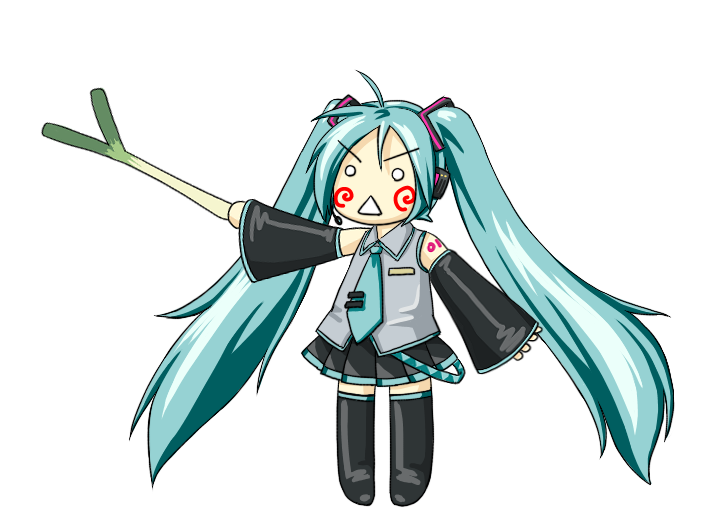
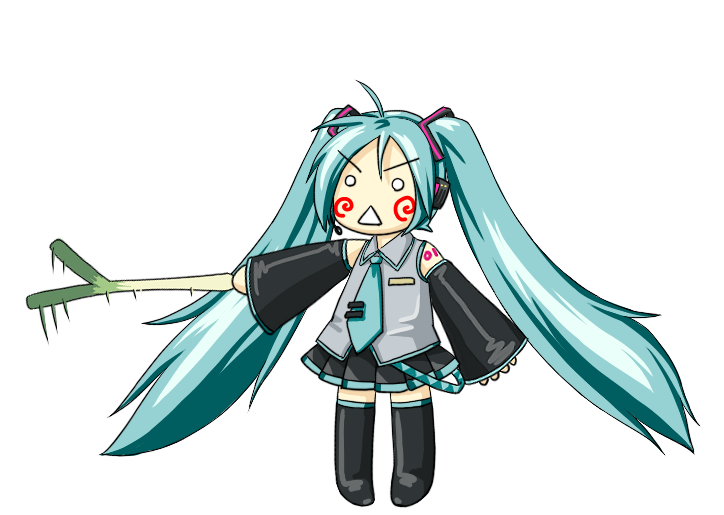
インタフェース名の変更(Dancer->IDancer) ImageDancerの画像表示方法をImage経由でなくBitmapImageの直接描画に変更 ImageDancerのMinBpm,MaxBpmをUIから設定できるようにした 踊り手切り替え時に画面からはみ出している場合、画面内に戻すようにした はちゅねミクの画像を修正

Changed region(s): [[0.0304, 0.1243, 0.9724, 0.9942]]

diff --git a/BeatDancer/ImageDancer/ImageDancerConfigWindow.xaml b/BeatDancer/ImageDancer/ImageDancerConfigWindow.xaml
@@ -31,6 +31,13 @@
                 <TextBox Grid.Column="1" x:Name="dirPathBox" Text="{Binding Path=ImageDirPath, Mode=TwoWay, UpdateSourceTrigger=PropertyChanged}"/>
                 <Button Grid.Column="2" Click="Path_Click">参照...</Button>
             </Grid>
+            
+            <StackPanel Orientation="Horizontal">
+                <Label>最小BPM</Label>
+                <TextBox Width="100" x:Name="minBpmBox" TextAlignment="Right" Text="{Binding Path=MinBpm, Mode=TwoWay}"></TextBox>
+                <Label>最大BPM</Label>
+                <TextBox Width="100" x:Name="maxBpmBox" TextAlignment="Right" Text="{Binding Path=MaxBpm, Mode=TwoWay}"></TextBox>
+            </StackPanel>
 
             <CheckBox Content="BPM表示" IsChecked="{Binding Path=ShowBpm, Mode=TwoWay}"/>
 

diff --git a/BeatDancer/ImageDancer/ImageDancer.cs b/BeatDancer/ImageDancer/ImageDancer.cs
@@ -13,6 +13,11 @@ namespace BeatDancer.ImageDancer
 {
     class ImageDancerConfig
     {
+        private double _minBpm = 70;
+        public double MinBpm { get { return _minBpm; } set { _minBpm = value; } }
+        private double _maxBpm = 180;
+        public double MaxBpm { get { return _maxBpm; } set { _maxBpm = value; } }
+
         private string _imageDirPath;
         public string ImageDirPath { get { return _imageDirPath; } set { _imageDirPath = value; } }
         private bool _showBpm;
@@ -22,6 +27,8 @@ namespace BeatDancer.ImageDancer
         public ImageDancerConfig Copy()
         {
             ImageDancerConfig ret = new ImageDancerConfig();
+            ret.MinBpm = this.MinBpm;
+            ret.MaxBpm = this.MaxBpm;
             ret.ImageDirPath = this.ImageDirPath;
             ret.ShowBpm = this.ShowBpm;
             ret.ShowGraph = this.ShowGraph;
@@ -38,30 +45,30 @@ namespace BeatDancer.ImageDancer
     ///       順番に使用される
     ///       最後のファイルまで使用される
     /// </summary>
-    class ImageDancer : Dancer
+    class ImageDancer : IDancer
     {
         private const string TYPENAME = "ImageDancer";
         private const string NAME = "画像";
         private static string[] _allowImageTypes = { "bmp", "png", "jpg", "gif" };
 
-        private double _minBpm = 70;
-        private double _maxBpm = 180;
-        public double MinBpm { get { return _minBpm; } set { _minBpm = value; } }
-        public double MaxBpm { get { return _maxBpm; } set { _maxBpm = value; } }
+        public double MinBpm { get { return _config.MinBpm; } set { _config.MinBpm = value; } }
+        public double MaxBpm { get { return _config.MaxBpm; } set { _config.MaxBpm = value; } }
         public bool HasConfig { get { return true; } }
         public string TypeName { get { return TYPENAME; } }
         public string Name { get { return NAME; } }
 
         private double _width = 200;
         private double _height = 200;
+        public double Width { get { return _width; } }
+        public double Height { get { return _height; } }
 
         private DrawingGroup rDg = null;
         private DrawingGroup gDg = null;
 
         private ImageDancerConfig _config = new ImageDancerConfig();
 
-        private List<Image> _images = null;
-        private List<double> _imageNumbers = null;
+        private List<BitmapImage> _bmps = new List<BitmapImage>();
+        private List<double> _imageNumbers = new List<double>();
         private bool _allNumbers = false;
         private Canvas _canvas = null;
 
@@ -69,14 +76,21 @@ namespace BeatDancer.ImageDancer
 
         public ImageDancer()
         {
-            _images = new List<Image>();
-            _imageNumbers = new List<double>();
         }
 
         public void Init(Canvas canvas)
         {
             _canvas = canvas;
-            _images.Clear();
+
+            if (_bmps != null)
+            {
+                for (int i = 0; i < _bmps.Count; i++)
+                {
+                    _bmps[i] = null;
+                }
+            }
+
+            _bmps.Clear();
             _imageNumbers.Clear();
 
             canvas.Children.Clear();
@@ -124,7 +138,7 @@ namespace BeatDancer.ImageDancer
                     }
                 }
             }
-            if (_images.Count <= 0)
+            if (_bmps.Count <= 0)
             {
                 _width = 200; _height = 200;
             }
@@ -152,21 +166,15 @@ namespace BeatDancer.ImageDancer
 
         private void loadImage(string fn, Canvas canvas)
         {
-            Image img = new Image();
             BitmapImage bmp = new BitmapImage(new Uri(fn, UriKind.Relative));
-            img.Source = bmp;
-            img.Stretch = Stretch.Uniform;
-            BitmapSource src = (BitmapSource)img.Source;
-            img.Width = src.PixelWidth; img.Height = src.PixelHeight;
-            if (img.Width > _width) _width = img.Width;
-            if (img.Height > _height) _height = img.Height;
-            img.Tag = Path.GetFileNameWithoutExtension(fn);
+            bmp.Freeze();
 
-            Canvas.SetLeft(img, 0);
-            Canvas.SetTop(img, 0);
-            canvas.Children.Add(img);
+            double w = bmp.PixelWidth; double h = bmp.PixelHeight;
 
-            _images.Add(img);
+            if (w > _width) _width = w;
+            if (h > _height) _height = h;
+
+            _bmps.Add(bmp);
         }
 
         public void Dispose()
@@ -227,7 +235,7 @@ namespace BeatDancer.ImageDancer
                 if (!_render) return;
             }
 
-            if (_images.Count == 0)
+            if (_bmps.Count == 0)
             {
                 using (DrawingContext dc = rDg.Open())
                 {
@@ -259,20 +267,19 @@ namespace BeatDancer.ImageDancer
                 else
                 {
                     // ファイル名が全部番号ではない場合: 均等に割り振る
-                    idx = (int)(ratio * _images.Count);
+                    idx = (int)(ratio * _bmps.Count);
                 }
-                idx = idx < 0 ? 0 : (idx >= _images.Count ? _images.Count - 1 : idx);
-                // 画像表示
-                for (int i = 0; i < _images.Count; i++)
-                {
-                    Image img = _images[i];
-                    img.Visibility = idx == i ? Visibility.Visible : Visibility.Hidden;
-                }
+                idx = idx < 0 ? 0 : (idx >= _bmps.Count ? _bmps.Count - 1 : idx);
 
                 using (DrawingContext dc = rDg.Open())
                 {
                     dc.DrawRectangle(Brushes.Transparent, null, new Rect(0, 0, _width, _height));
+
+                    // BPM表示
                     if (_config.ShowBpm) drawBpm(bpm, dc);
+
+                    // 画像表示
+                    dc.DrawImage(_bmps[idx], new Rect(0, 0, _width, _height));
                 }
             }
         }
@@ -293,6 +300,8 @@ namespace BeatDancer.ImageDancer
                 this.Init(_canvas);
                 Dictionary<string, string> dic = Config.Instance.GetDancerConfig(this.TypeName);
                 this.ConvertToDic(ref dic);
+
+                (App.Current.MainWindow as MainWindow).AdjustWindowPosition();
             }
             lock (this)
             {
@@ -303,9 +312,15 @@ namespace BeatDancer.ImageDancer
         public void ConvertFromDic(ref Dictionary<string, string> dic)
         {
             if (dic.ContainsKey("MinBpm"))
-                double.TryParse(dic["MinBpm"], out _minBpm);
+            {
+                double m = _config.MinBpm;
+                if (double.TryParse(dic["MinBpm"], out m)) _config.MinBpm = m;
+            }
             if (dic.ContainsKey("MaxBpm"))
-                double.TryParse(dic["MaxBpm"], out _maxBpm);
+            {
+                double m = _config.MaxBpm;
+                if (double.TryParse(dic["MaxBpm"], out m)) _config.MaxBpm = m;
+            }
             if (dic.ContainsKey("ImageDirPath"))
                 _config.ImageDirPath = dic["ImageDirPath"];
             if (dic.ContainsKey("ShowBpm"))

diff --git a/BeatDancer/MainWindow.xaml.cs b/BeatDancer/MainWindow.xaml.cs
@@ -63,9 +63,13 @@ namespace BeatDancer
         private long _constBpmBaseTick = 0;
         #endregion
 
+        /// <summary>少なくともこの大きさ分だけは画面上に出ていないといけない限界値</summary>
+        private double _minMargin = 100;
 
         #region Windowドラッグ
+        /// <summary>ドラッグ中か否か</summary>
         private bool _isWindowDragging = false;
+        /// <summary>ドラッグ中の前回の位置</summary>
         private Point _prevPoint = new Point(-1, -1);
         void MainWindow_MouseUp(object sender, MouseButtonEventArgs e)
         {
@@ -100,6 +104,7 @@ namespace BeatDancer
 
         void MainWindow_Loaded(object sender, RoutedEventArgs e)
         {
+            // 位置セット
             this.Left = Config.Instance.WindowLocation.X;
             this.Top = Config.Instance.WindowLocation.Y;
 
@@ -116,12 +121,16 @@ namespace BeatDancer
             _cap.CreateGraph();
             _cap.StartCapture();
             _beatManager = _cap.Sampler.DetectManagers[0];
+            _beatManager.DancerManager = _dancerManager;
             DataContext = _beatManager;
 
             /// メニュー
             captureBpmMenuItem.IsChecked = Config.Instance.UseCapturedBpm;
             constBpmMenuItem.IsChecked = !Config.Instance.UseCapturedBpm;
             constBpmValueBox.Text = Config.Instance.ConstBpmValue.ToString();
+
+            /// 位置調整
+            AdjustWindowPosition();
 
             /// frame rate 初期化
             _currentTick = Environment.TickCount;
@@ -204,6 +213,34 @@ namespace BeatDancer
             Config.Instance.WindowLocation = new Point(this.Left, this.Top);
             Config.Instance.Save();
             _cap.Dispose();
+        }
+
+        public void AdjustWindowPosition()
+        {
+            double dx = this.Left;
+            double dy = this.Top;
+            double dw = this.Width;
+            double dh = this.Height;
+            if (_dancerManager != null && _dancerManager.Dancer != null)
+            {
+                dw = _dancerManager.Dancer.Width;
+                dh = _dancerManager.Dancer.Height;
+            }
+            double x = SystemParameters.VirtualScreenLeft;
+            double y = SystemParameters.VirtualScreenTop;
+            double w = SystemParameters.VirtualScreenWidth;
+            double h = SystemParameters.VirtualScreenHeight;
+
+            if (dx + dw < x + _minMargin)
+                this.Left = x + _minMargin - dw;
+            if (dy + dh < y + _minMargin)
+                this.Top = y + _minMargin - dh;
+            if (this.Left > x + w - _minMargin)
+                this.Left = x + w - _minMargin;
+            if (this.Top > y + h - _minMargin)
+                this.Top = y + h - _minMargin;
+
+            Console.WriteLine("dancer: ({0}, {1}, {2}, {3}), screen: ({4}, {5}, {6}, {7})", dx, dy, dw, dh, x, y, w, h);
         }
 
 

diff --git a/BeatDancer/DancerManager.cs b/BeatDancer/DancerManager.cs
@@ -12,8 +12,8 @@ namespace BeatDancer
         private Dictionary<string, Type> _typeNameTable = null;
         private List<MenuItem> _menuItems = null;
 
-        private Dancer _dancer = null;
-        public Dancer Dancer
+        private IDancer _dancer = null;
+        public IDancer Dancer
         {
             get { return _dancer; }
         }
@@ -30,10 +30,10 @@ namespace BeatDancer
                     {
                         foreach (Type t in m.GetTypes())
                         {
-                            if (t.GetInterface("Dancer") == typeof(Dancer))
+                            if (t.GetInterface("IDancer") == typeof(IDancer))
                             {
                                 object o = Activator.CreateInstance(t);
-                                Dancer d = o as Dancer;
+                                IDancer d = o as IDancer;
                                 _nameTable.Add(d.TypeName, d.Name);
                                 _typeNameTable.Add(d.TypeName, t);
                             }
@@ -77,13 +77,15 @@ namespace BeatDancer
                     _dancer.ConvertToDic(ref dc);
                     _dancer.Dispose();
                 }
-                _dancer = o as Dancer;
+                _dancer = o as IDancer;
                 Canvas c = (App.Current.MainWindow as MainWindow).canvas;
                 Dictionary<string, string> ndc = Config.Instance.GetDancerConfig(_dancer.TypeName);
                 _dancer.ConvertFromDic(ref ndc);
                 _dancer.Init(c);
 
                 Config.Instance.Save();
+
+                (App.Current.MainWindow as MainWindow).AdjustWindowPosition();
 
                 if (_menuItems != null)
                 {

diff --git a/BeatDancer/TestDancer/TestDancer.cs b/BeatDancer/TestDancer/TestDancer.cs
@@ -11,7 +11,7 @@ namespace BeatDancer.TestDancer
     /// <summary>
     ///  デバッグ用
     /// </summary>
-    class TestDancer : Dancer
+    class TestDancer : IDancer
     {
         private const string TYPENAME = "TestDancer";
         private const string NAME = "デバッグ用";
@@ -23,6 +23,9 @@ namespace BeatDancer.TestDancer
         public bool HasConfig { get { return true; } }
         public string TypeName { get { return TYPENAME; } }
         public string Name { get { return NAME; } }
+
+        public double Width { get { return 200; } }
+        public double Height { get { return 200; } }
 
         private DrawingGroup rDg = null;
         private DrawingGroup gDg = null;

diff --git a/BeatDancer/ImageDancer/ImageDancerConfigWindow.xaml.cs b/BeatDancer/ImageDancer/ImageDancerConfigWindow.xaml.cs
@@ -21,6 +21,15 @@ namespace BeatDancer.ImageDancer
         public ImageDancerConfigWindow()
         {
             InitializeComponent();
+            this.Loaded += new RoutedEventHandler(ImageDancerConfigWindow_Loaded);
+        }
+
+        void ImageDancerConfigWindow_Loaded(object sender, RoutedEventArgs e)
+        {
+            ImageDancerConfig idc = (ImageDancerConfig)DataContext;
+            dirPathBox.Text = idc.ImageDirPath;
+            minBpmBox.Text = idc.MinBpm.ToString();
+            maxBpmBox.Text = idc.MaxBpm.ToString();
         }
 
         private void OK_Click(object sender, RoutedEventArgs e)

diff --git a/BeatDancer/Dancer.cs b/BeatDancer/Dancer.cs
@@ -6,12 +6,14 @@ using System.Windows.Controls;
 
 namespace BeatDancer
 {
-    interface Dancer : IDisposable
+    interface IDancer : IDisposable
     {
         double MinBpm { get; set; }
         double MaxBpm { get; set; }
         string TypeName { get; }
         string Name { get; }
+        double Width { get; }
+        double Height { get; }
         bool HasConfig { get; }
         void Init(Canvas canvas);
         void Configuration();

diff --git a/BeatDancer/BeatManager.cs b/BeatDancer/BeatManager.cs
@@ -167,7 +167,7 @@ namespace BeatDancer
                 st.BpmDancer = st.BpmRaw;
                 if (_dancerManager != null)
                 {
-                    Dancer dancer = _dancerManager.Dancer;
+                    IDancer dancer = _dancerManager.Dancer;
                     double minBpm = dancer.MinBpm;
                     double maxBpm = dancer.MaxBpm;
                     if (st.BpmDancer > maxBpm)
